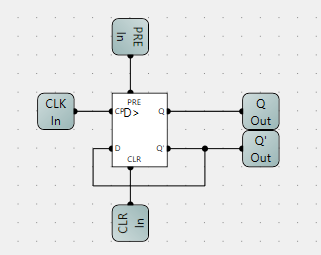
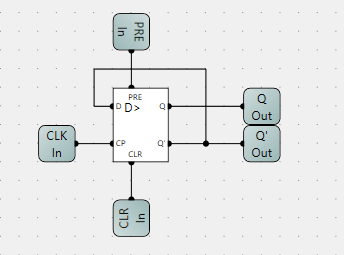
Add 8bit Register

Changed region(s): [[0.0935, 0.0275, 0.8723, 0.9608]]

diff --git a/docs.md b/docs.md
@@ -268,3 +268,22 @@ $$
 
 #### 电路实现
 ![计数器](img/counter/8bit_counter_impl.png)
+
+## 寄存器 (edge-triggered）
+
+### 三态门（Three-State Gate）
+
+#### 电路实现
+![三态门](img/basic/gate.png)
+
+### 8位锁存器
+电路图如下：
+![8位锁存器](img/register/latch.png)
+
+#### 电路实现
+![8位锁存器](img/register/latch_impl.png)
+
+### 8位寄存器
+
+#### 电路实现
+![8位寄存器](img/register/register.png)
